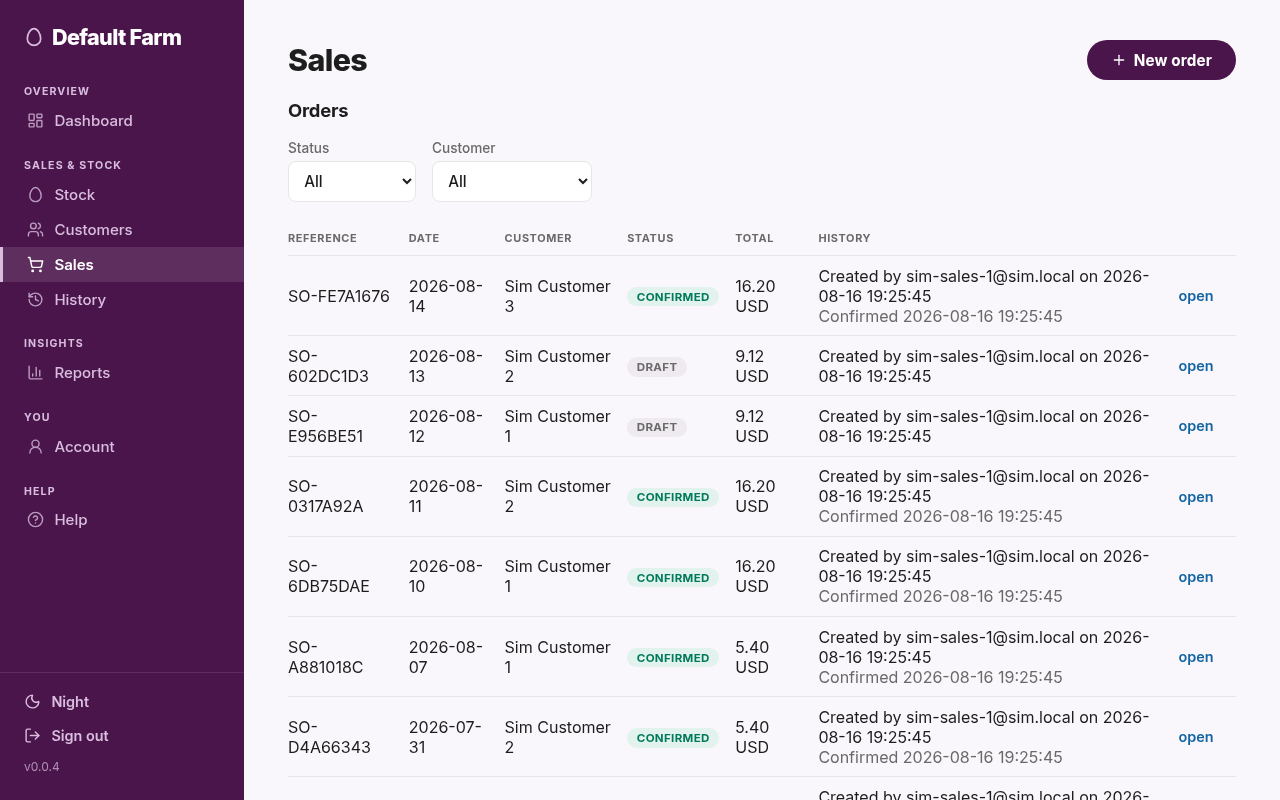
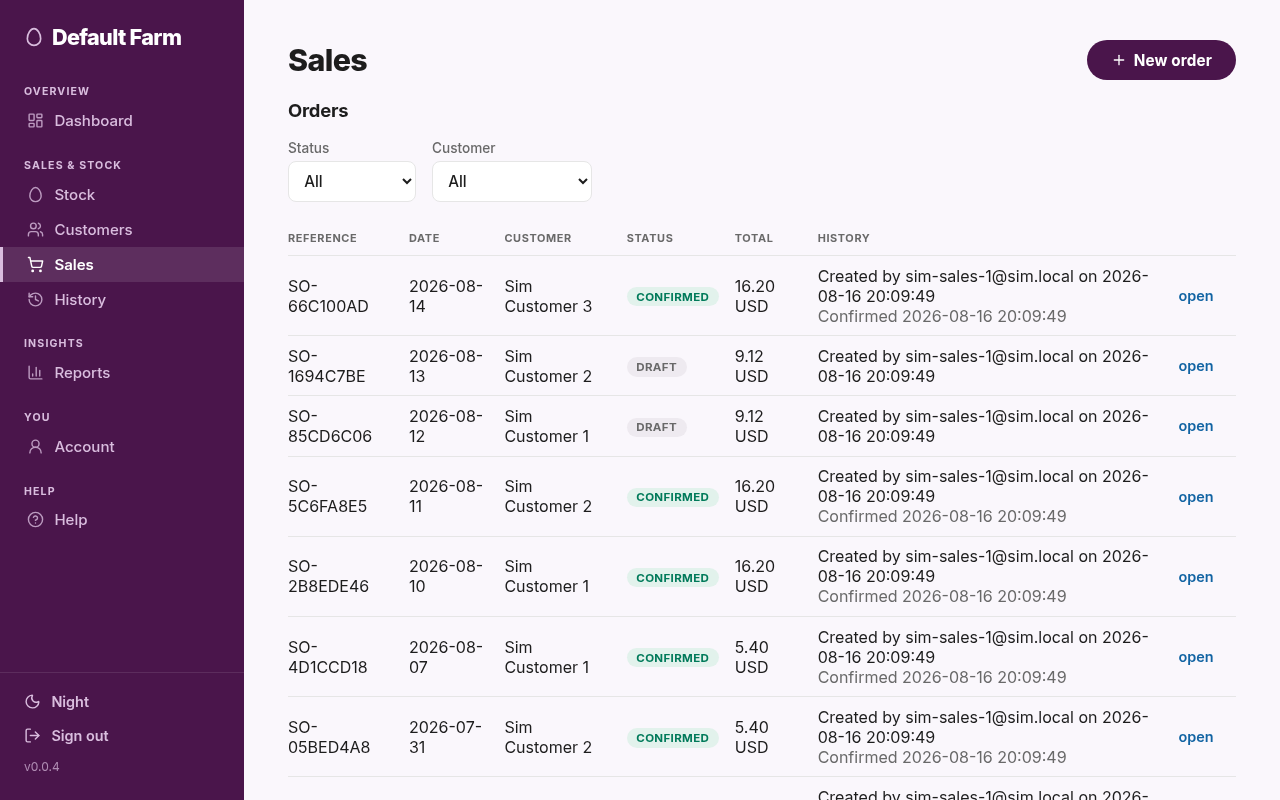
docs: assert the sales screen actually loaded, and typecheck the capture spec
Codex review round 1 on PR 550, two P2 findings, both confirmed:

- The sales capture asserted only the Orders heading and the absence of
  "Loading…". When the initial request fails, usePagedList empties the rows and
  clears its loading flag, so the page settles into an error plus the empty
  state with the heading still present — both assertions pass and the run
  overwrites the committed image with a picture of a failure while reporting
  success. It now asserts the empty state is absent and that the table holds
  orders in both lifecycle states.
- tsconfig.json listed specs and specs-canary but not specs-screenshots, so
  "npm run typecheck is clean" said nothing about either new file. Both paths
  added.

Verified rather than asserted:

- Typecheck coverage: a deliberate type error in the new spec now fails the
  typecheck, and removing it restores green. That same run surfaced a real
  defect the vacuous check had hidden — an unused prefixOf import, left over
  from a refuted assertion. Removed.
- The sales assertion: with the sales endpoint aborted via page.route, the run
  fails on the empty-state assertion by name. The previous assertions passed
  under the same mutation.

Fixing it also caught a wrong namespace: the empty state is
sales:noOrdersMatch, not dashboard:noOrdersMessage. src/i18n.ts throws on an
absent key instead of falling back, which is what surfaced it.

Images refreshed against the reseeded fixture so all three come from one run.

diff --git a/tools/simulation/ui/specs-screenshots/screenshots.spec.ts b/tools/simulation/ui/specs-screenshots/screenshots.spec.ts
@@ -39,7 +39,7 @@ import { fileURLToPath } from "node:url";
 import { expect, test, type Page } from "../src/fixtures";
 import { castMember } from "../src/cast";
 import { daysBefore, farmToday } from "../src/farm";
-import { prefixOf, tEn } from "../src/i18n";
+import { tEn } from "../src/i18n";
 
 // tools/simulation/ui/specs-screenshots/ -> repo root -> docs/images/
 const IMAGE_DIR = fileURLToPath(new URL("../../../../docs/images/", import.meta.url));
@@ -155,8 +155,28 @@ test.describe("README screenshots", () => {
     await page.goto("/sales");
 
     await expect(page.getByRole("heading", { name: tEn("sales:ordersHeading") })).toBeVisible();
-    await expect(page.getByText(tEn("sales:loading"))).toHaveCount(0);
+
+    // The heading and the absence of "Loading…" are NOT enough, and the failure
+    // they miss is the one that matters: when the initial /sales request fails,
+    // `usePagedList` empties the rows and clears its loading flag, so the page
+    // settles into an error plus the empty-state message with the heading still
+    // there. Both weak signals pass, and the run overwrites the committed image
+    // with a picture of an error while reporting success.
+    //
+    // So: the empty state must be absent, and the table must actually hold
+    // orders in the two lifecycle states this capture exists to show.
+    // `sales:noOrdersMatch`, not `dashboard:noOrdersMessage` — two different
+    // empty states in two namespaces, and this page renders the former. The
+    // wrong one is not a silent miss: src/i18n.ts throws on an absent key
+    // rather than falling back, which is how this was caught.
+    await expect(page.getByText(tEn("sales:noOrdersMatch"))).toHaveCount(0);
+    const orders = page.getByRole("table").first();
+    await expect(orders.getByRole("row").filter({ hasText: tEn("enums:status.Confirmed") }))
+      .not.toHaveCount(0);
+    await expect(orders.getByRole("row").filter({ hasText: tEn("enums:status.Draft") }))
+      .not.toHaveCount(0);
 
     await capture(page, "sales.png");
   });
 });
+
